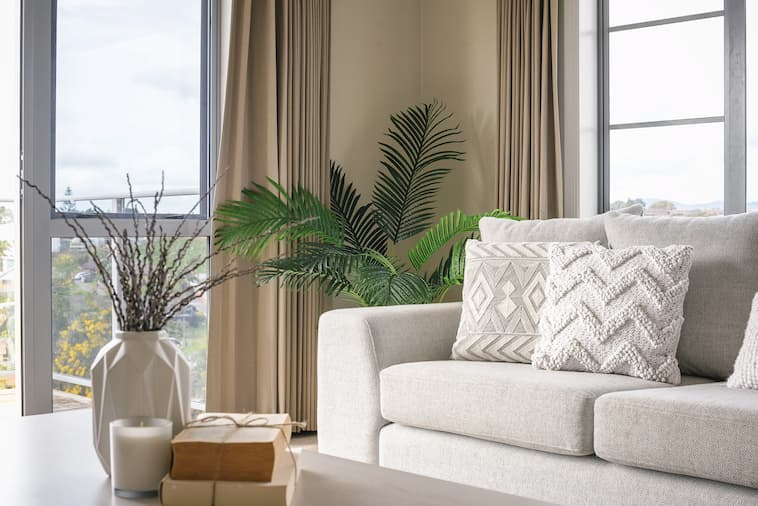
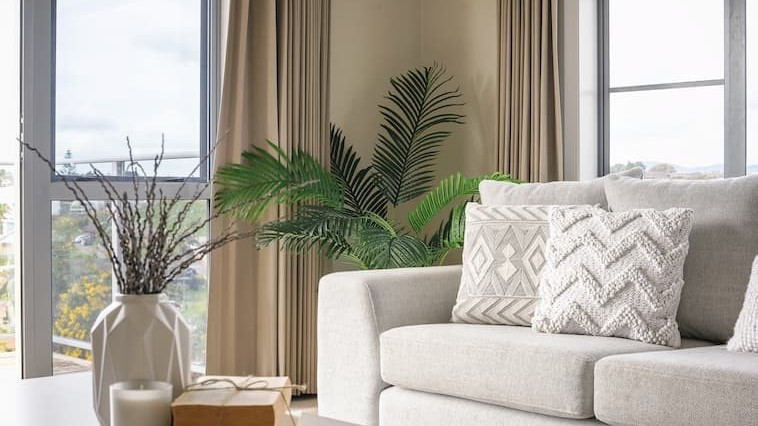
lg

diff --git a/css/style.css b/css/style.css
@@ -5,7 +5,7 @@
 }
 
 .padding{
-    padding:100px;
+    /* padding:100px; */
 }
 .home{
     width: 1360px;
@@ -18,9 +18,12 @@
     width: 50%;
     padding: 10px;
 }
+img{
+    width: 100%;
+}
 .row{
     display: flex;
-    /* flex-wrap: wrap; */
+    flex-wrap: wrap;
 }
 .justify-center{
     justify-content: center;
@@ -31,21 +34,7 @@
 .align-center{
     align-items: center;
 }
-.img1{
-    width:660px;
-}
-.img1 img{
-    width: 100%;
-}
-.img2 ,.img3{
-    width:300px;
-}
-.img2 img ,.img3 img{
-    margin-top: 20px;
-    width: 100%;
-    border-radius: 5%;
-    height: 200px;
-}
+
 .house p{
     font-size: 15px;
     color: #94a3b8;
@@ -64,8 +53,13 @@
     border-radius: 10px;
 }
 .housep{
-    width: 85%;
     margin-top: 24px;
     font-size: 18px;
     color: #94a3b8;
+}
+.p-0{
+    padding: 0;
+}
+.p-right-0{
+    padding: 0 10px 0 0;
 }

diff --git a/css/media.css b/css/media.css
@@ -1,5 +1,28 @@
-@media (max-width: 700px) {
-    .img1,.img2,.img3 {
-        display:inline;
+/* lg-screen */
+
+@media (min-width: 992px) and (max-width: 1199px) {
+    .home {
+        max-width: 960px;
+        margin: auto;
+    }
+    .w-lg-100{
+        width: 100%;
+    }
+    .lg-1{
+        order: 1;
+    }
+    .lg-2{
+        order: 2;
+    }
+    .w-lg-50{
+        width: 50%;
+        padding: 10px;
+    }
+    .w-lg-25{
+        width: 25%;
+        padding: 10px;
+    }
+    .p-0{
+        padding: 0;
     }
 }
